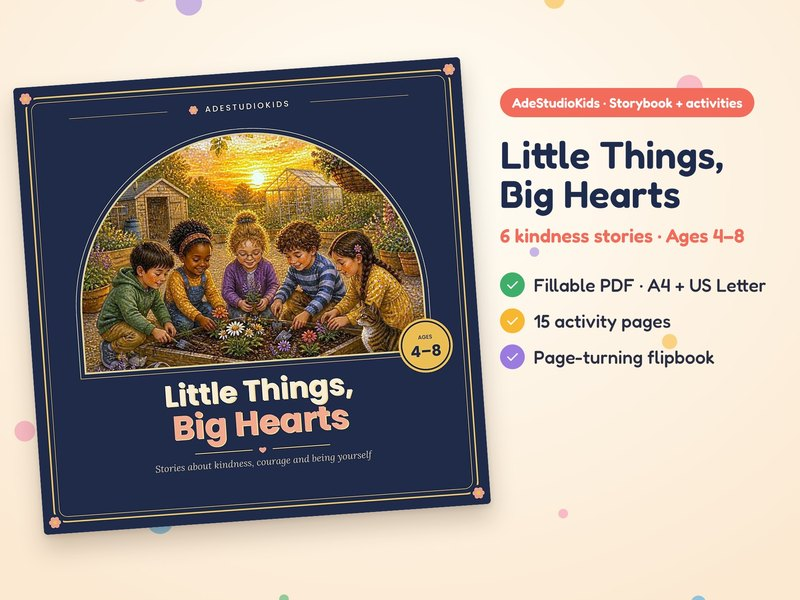
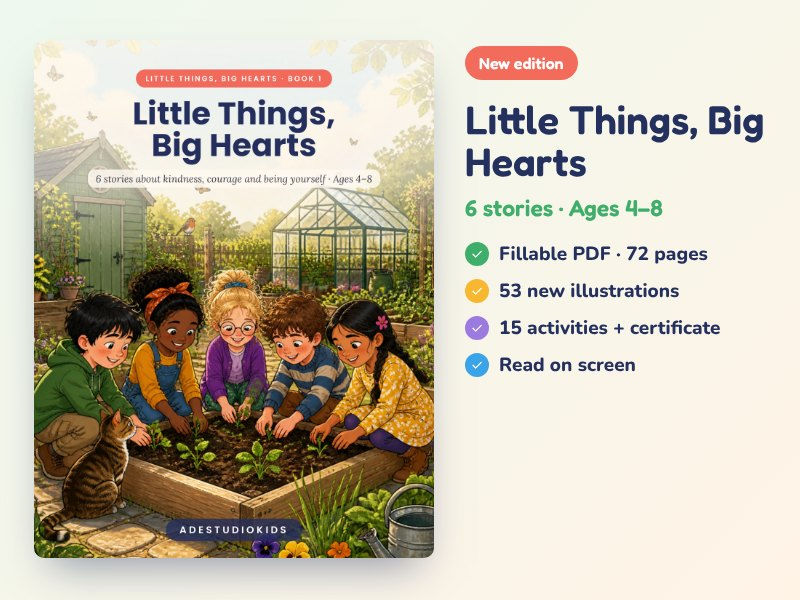
Little Things, Big Hearts 1: new edition cards and listing links
Claude-Session: https://claude.ai/code/session_015x77RSHWs4ABUyjn3YimF7

diff --git a/index.html b/index.html
@@ -196,11 +196,11 @@ footer a{text-decoration:none} footer a:hover{color:#fff;text-decoration:underli
 <p class="desc" data-fr="Six histoires sur les grandes émotions, 15 pages d’activités, 30 coloriages et un livre feuilletable. 100 pages, 4 à 8 ans. (version anglaise)">Six stories about big feelings, with 15 activity pages, 30 colouring pages and a flipbook. 100 pages, ages 4 to 8.</p>
 <p class="buyrow"><span class="price">€7.90</span><a class="etsy" href="https://www.etsy.com/listing/4602965201/feelings-storybook-for-kids-4-8-big" target="_blank" rel="noopener" data-fr="Voir sur Etsy">See on Etsy</a></p>
 </li><li class="book">
-<a class="cv" href="https://www.etsy.com/listing/4600400044/kindness-storybook-for-kids-4-8" target="_blank" rel="noopener" tabindex="-1" aria-hidden="true"><img src="little-things-big-hearts.jpg" alt="Little Things, Big Hearts, kindness storybook for ages 4 to 8" loading="lazy" width="800" height="600"><span class="badge" data-fr="Nouveau">New</span></a>
+<a class="cv" href="https://www.etsy.com/listing/4610372766" target="_blank" rel="noopener" tabindex="-1" aria-hidden="true"><img src="little-things-big-hearts.jpg" alt="Little Things, Big Hearts, kindness storybook for ages 4 to 8" loading="lazy" width="800" height="600"></a>
 <p class="kind" data-fr="Histoires + activités">Storybook + activities</p>
-<h3><a href="https://www.etsy.com/listing/4600400044/kindness-storybook-for-kids-4-8" target="_blank" rel="noopener">Little Things, Big Hearts</a></h3>
-<p class="desc" data-fr="Six douces histoires sur la gentillesse, 15 pages d’activités et un livre feuilletable. 70 pages, 4 à 8 ans. (version anglaise)">Six gentle stories about kindness, with 15 activity pages and a flipbook. 70 pages, ages 4 to 8.</p>
-<p class="buyrow"><span class="price">€6.90</span><a class="etsy" href="https://www.etsy.com/listing/4600400044/kindness-storybook-for-kids-4-8" target="_blank" rel="noopener" data-fr="Voir sur Etsy">See on Etsy</a></p>
+<h3><a href="https://www.etsy.com/listing/4610372766" target="_blank" rel="noopener">Little Things, Big Hearts</a></h3>
+<p class="desc" data-fr="Nouvelle édition avec 53 nouvelles illustrations : six douces histoires sur la gentillesse, 15 pages d’activités et un certificat. À lire aussi à l’écran. 72 pages, 4 à 8 ans. (version anglaise)">New edition with 53 brand-new illustrations: six gentle stories about kindness, 15 activity pages and a certificate. Read on screen too. 72 pages, ages 4 to 8.</p>
+<p class="buyrow"><span class="price">€7.90</span><a class="etsy" href="https://www.etsy.com/listing/4610372766" target="_blank" rel="noopener" data-fr="Voir sur Etsy">See on Etsy</a></p>
 </li><li class="book">
 <a class="cv" href="https://www.etsy.com/listing/4600428587/winter-activity-book-kids-4-7-printable" target="_blank" rel="noopener" tabindex="-1" aria-hidden="true"><img src="winter-activity-book.jpg" alt="Winter in Willow Hollow, winter activity book for ages 4 to 7" loading="lazy" width="800" height="600"><span class="badge" data-fr="Nouveau">New</span></a>
 <p class="kind" data-fr="PDF remplissable + puzzle numérique">Fillable PDF + digital puzzle</p>
@@ -293,11 +293,11 @@ footer a{text-decoration:none} footer a:hover{color:#fff;text-decoration:underli
 <p class="desc" data-fr="Six histoires sur les grandes émotions, 15 pages d’activités, 30 coloriages et un livre feuilletable. 100 pages, 4 à 8 ans.">The French edition: six stories about big feelings, 15 activity pages, 30 colouring pages and a flipbook. 100 pages, ages 4 to 8.</p>
 <p class="buyrow"><span class="price">€7.90</span><a class="etsy" href="https://www.etsy.com/listing/4602971883/livre-emotions-enfant-4-8-ans-a-imprimer" target="_blank" rel="noopener" data-fr="Voir sur Etsy">See on Etsy</a></p>
 </li><li class="book">
-<a class="cv" href="https://www.etsy.com/listing/4600409990/livre-gentillesse-enfant-4-8-ans-a" target="_blank" rel="noopener" tabindex="-1" aria-hidden="true"><img src="petits-gestes-grands-coeurs.jpg" alt="Petits gestes, grands cœurs, livre sur la gentillesse, 4 à 8 ans" loading="lazy" width="800" height="600"><span class="badge" data-fr="Nouveau">New</span></a>
+<a class="cv" href="https://www.etsy.com/listing/4610356077" target="_blank" rel="noopener" tabindex="-1" aria-hidden="true"><img src="petits-gestes-grands-coeurs.jpg" alt="Petits gestes, grands cœurs, livre sur la gentillesse, 4 à 8 ans" loading="lazy" width="800" height="600"></a>
 <p class="kind" data-fr="Histoires + activités">Storybook + activities</p>
-<h3><a href="https://www.etsy.com/listing/4600409990/livre-gentillesse-enfant-4-8-ans-a" target="_blank" rel="noopener">Petits gestes, grands cœurs</a></h3>
-<p class="desc" data-fr="Six douces histoires sur la gentillesse, 15 pages d’activités et un livre feuilletable. 70 pages, 4 à 8 ans.">The French edition: six kindness stories, 15 activity pages and a flipbook. 70 pages, ages 4 to 8.</p>
-<p class="buyrow"><span class="price">€6.90</span><a class="etsy" href="https://www.etsy.com/listing/4600409990/livre-gentillesse-enfant-4-8-ans-a" target="_blank" rel="noopener" data-fr="Voir sur Etsy">See on Etsy</a></p>
+<h3><a href="https://www.etsy.com/listing/4610356077" target="_blank" rel="noopener">Petits gestes, grands cœurs</a></h3>
+<p class="desc" data-fr="Nouvelle édition avec 53 nouvelles illustrations : six douces histoires sur la gentillesse, 15 pages d’activités et un certificat. À lire aussi à l’écran. 72 pages, 4 à 8 ans.">The French edition, now with 53 brand-new illustrations: six kindness stories, 15 activity pages and a certificate. 72 pages, ages 4 to 8.</p>
+<p class="buyrow"><span class="price">€7.90</span><a class="etsy" href="https://www.etsy.com/listing/4610356077" target="_blank" rel="noopener" data-fr="Voir sur Etsy">See on Etsy</a></p>
 </li><li class="book">
 <a class="cv" href="https://www.etsy.com/listing/4600457814/cahier-dactivites-hiver-enfant-4-7-ans-a" target="_blank" rel="noopener" tabindex="-1" aria-hidden="true"><img src="cahier-activites-hiver.jpg" alt="L’hiver au Val-des-Saules, cahier d’activités d’hiver, 4 à 7 ans" loading="lazy" width="800" height="600"></a>
 <p class="kind" data-fr="PDF remplissable + puzzle numérique">Fillable PDF + digital puzzle</p>
